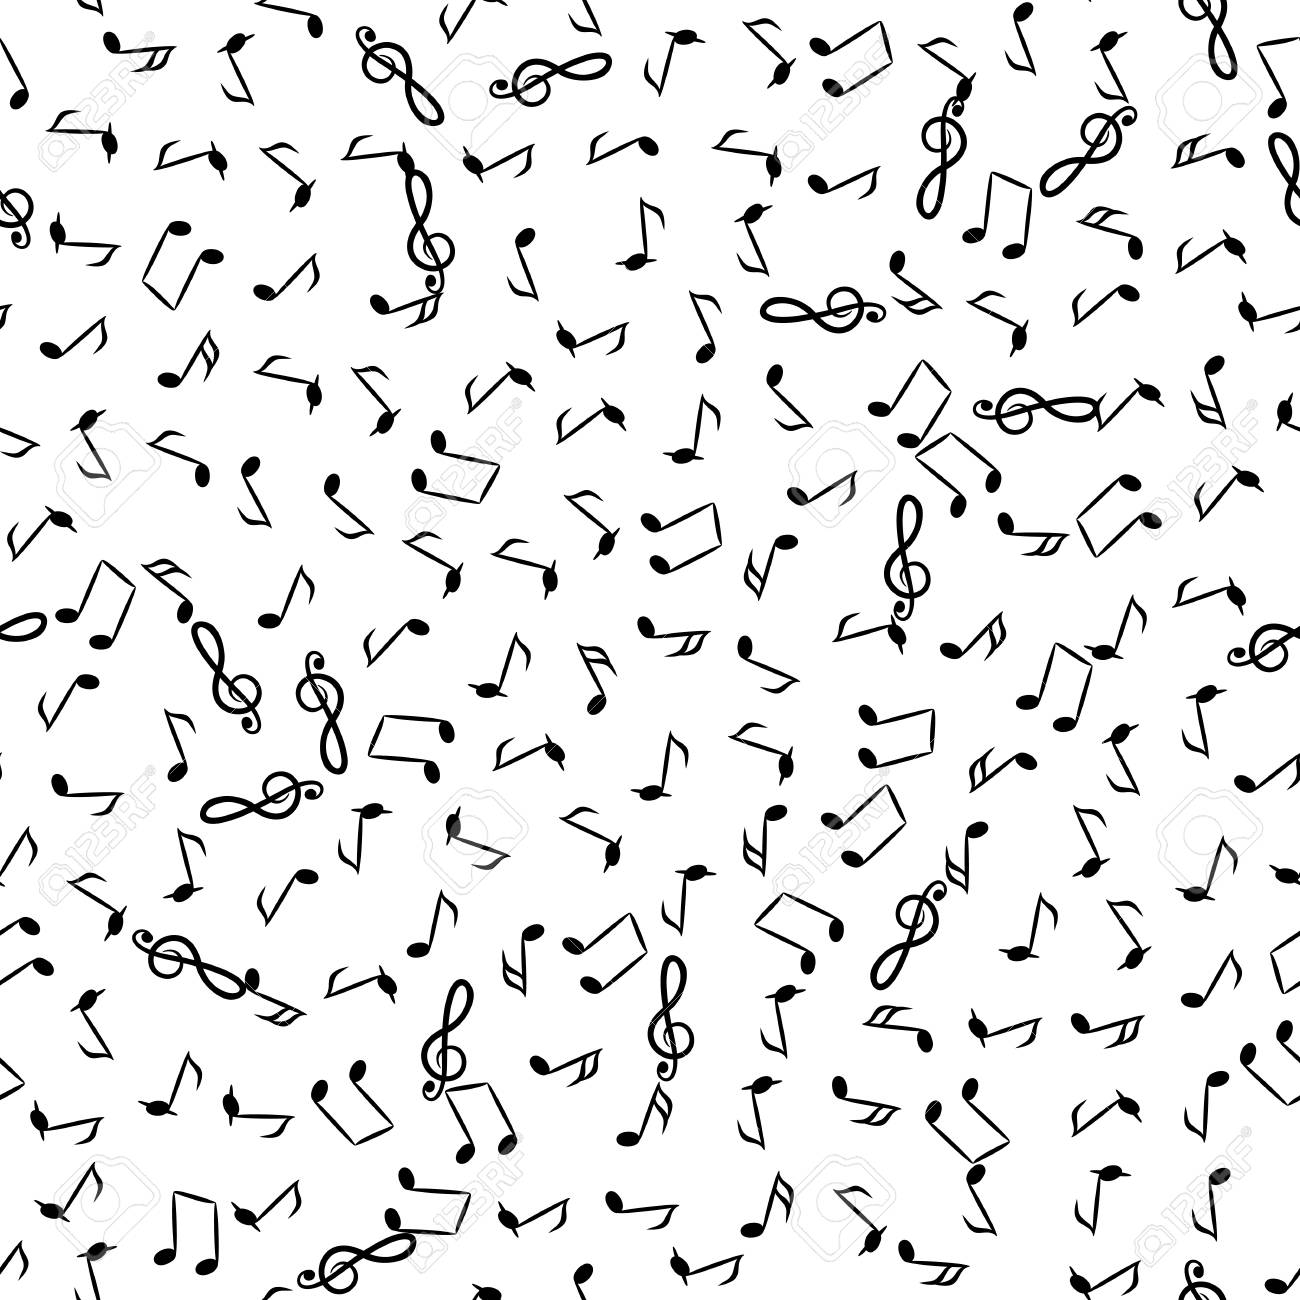
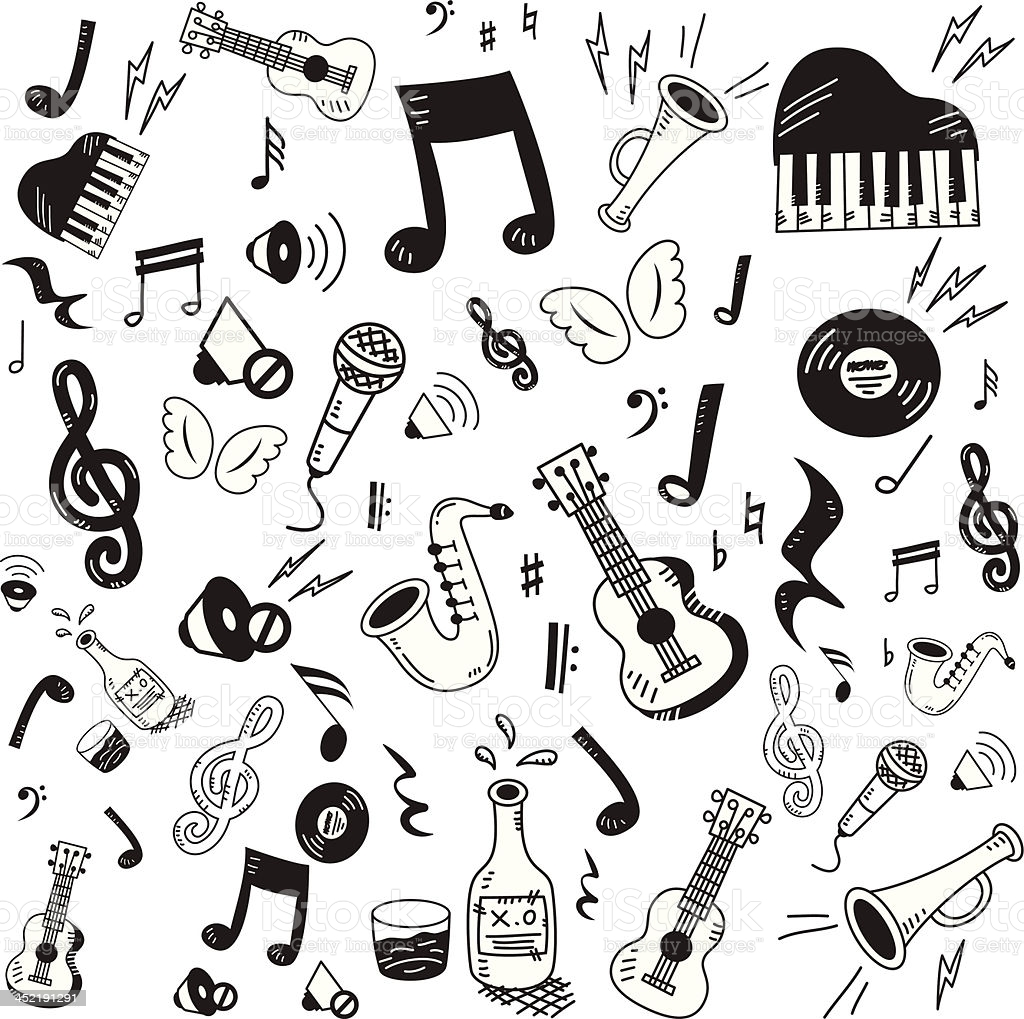
Add new background image and changes after fixing warnings in JS validator

Changed region(s): [[0.0, 0.0, 1.0, 1.0], [0.9688, 0.9735, 1.0, 1.0], [0.7188, 0.9735, 0.75, 1.0]]

diff --git a/assets/js/script.js b/assets/js/script.js
@@ -16,16 +16,16 @@ const picSelection = ['one', 'one', 'two', 'two', 'three', 'three', 'four', 'fou
         const position = Math.floor(Math.random() * picSelection.length); //1
         pic.classList.add(picSelection[position]);
         picSelection.splice(position, 1);
-    })
+    });
     setTimeout(function () {
         pics.forEach(pic => {
-            pic.classList.add("hidden")
-            pic.addEventListener("click", clickPic)
-        })
-    }, 500)
+            pic.classList.add("hidden");
+            pic.addEventListener("click", clickPic);
+        });
+    }, 500);
   };
   
-  start()
+  start();
  
   // Place two chosen pictures here
   const chosenPics = [];
@@ -43,40 +43,36 @@ chosenPic.classList.remove('hidden');
 // First click, array = 0
 // These two functions are based on functions from https://www.youtube.com/watch?v=gKUUHjEg7mQ&t=3902s
    if (chosenPics.length === 0) {
-       console.log("First");
        chosenPics[0] = chosenPic; 
        return;
    } else {
-       console.log("Second");
         // For a brief moment we remove the possibility to click 
-       pics.forEach(pic => pic.removeEventListener("click", clickPic))
+       pics.forEach(pic => pic.removeEventListener("click", clickPic));
        chosenPics[1] = chosenPic;
  
        setTimeout(function () {
            if (chosenPics[0].className === chosenPics[1].className) {
-               console.log("WINNING!")
-               chosenPics.forEach(pic => pic.classList.add("matched"))
+               chosenPics.forEach(pic => pic.classList.add("matched"));
                pics = pics.filter(pic => !pic.classList.contains("matched"));
                gameResult++; // Update game result
 
                // Check if the game came to an end
                if (gameResult == gameLenght) {
                    const endGame = new Date().getTime();
-                   const gameTime = (endGame - beginGame) / 1000
-                   alert(`You won! Your score is: ${gameTime} `)
+                   const gameTime = (endGame - beginGame) / 1000;
+                   alert(`You won! Your time is ${gameTime} seconds!`);
                    location.reload(); // Start the game again
                }
            } else {
-               console.log("Lost")
-               chosenPics.forEach(pic => pic.classList.add("hidden"))
+               chosenPics.forEach(pic => pic.classList.add("hidden"));
            }
 
            chosenPic = ""; 
            chosenPics.length = 0; 
-           pics.forEach(pic => pic.addEventListener("click", clickPic))
+           pics.forEach(pic => pic.addEventListener("click", clickPic));
  
-       }, 700)
-     } 
+       }, 700);
+     }
  };
  
  const gameLenght = pics.length / 2; // 8 pairs

diff --git a/assets/js/script_two.js b/assets/js/script_two.js
@@ -17,16 +17,16 @@ const picSelection = ['pic-1', 'pic-1', 'pic-2', 'pic-2', 'pic-3', 'pic-3', 'pic
         const position = Math.floor(Math.random() * picSelection.length); //1
         pic.classList.add(picSelection[position]);
         picSelection.splice(position, 1);
-    })
+    });
     setTimeout(function () {
         pics.forEach(pic => {
             pic.classList.add("hidden")
-            pic.addEventListener("click", clickPic)
-        })
-    }, 1000)
+            pic.addEventListener("click", clickPic);
+        });
+    }, 1000);
   };
   
-  start()
+  start();
  
   // Place two chosen pictures here
   const chosenPics = [];
@@ -44,39 +44,35 @@ chosenPic.classList.remove('hidden');
 // First click, array = 0
 // These two functions are based on functions from https://www.youtube.com/watch?v=gKUUHjEg7mQ&t=3902s
    if (chosenPics.length === 0) {
-       console.log("First");
        chosenPics[0] = chosenPic; 
        return;
    } else {
-       console.log("Second");
         // For a brief moment we remove the possibility to click 
-       pics.forEach(pic => pic.removeEventListener("click", clickPic))
+       pics.forEach(pic => pic.removeEventListener("click", clickPic));
        chosenPics[1] = chosenPic;
  
        setTimeout(function () {
            if (chosenPics[0].className === chosenPics[1].className) {
-               console.log("WINNING!")
-               chosenPics.forEach(pic => pic.classList.add("matched"))
+               chosenPics.forEach(pic => pic.classList.add("matched"));
                pics = pics.filter(pic => !pic.classList.contains("matched"));
                gameResult++; // Update game result
 
                // Check if the game came to an end
                if (gameResult == gameLenght) {
                    const endGame = new Date().getTime();
-                   const gameTime = (endGame - beginGame) / 1000
-                   alert(`You won! Your score is: ${gameTime} `)
+                   const gameTime = (endGame - beginGame) / 1000;
+                   alert(`You won! Your time is ${gameTime} seconds!`);
                    location.reload(); // Start the game again
                }
            } else {
-               console.log("Lost")
-               chosenPics.forEach(pic => pic.classList.add("hidden"))
+               chosenPics.forEach(pic => pic.classList.add("hidden"));
            }
 
            chosenPic = ""; 
            chosenPics.length = 0; 
-           pics.forEach(pic => pic.addEventListener("click", clickPic))
+           pics.forEach(pic => pic.addEventListener("click", clickPic));
  
-       }, 700)
+       }, 700);
      } 
  };
  

diff --git a/assets/css/style.css b/assets/css/style.css
@@ -267,12 +267,10 @@ div {
     margin: auto;
     text-transform: uppercase;
     text-align: center;
-    border: 1px solid black;
-    background: red;
-    border-radius: 20px;
-    color: black;
+   
     margin-bottom: 20px;
-    width: 800px;
+    min-width: 400px;
+    
 } 
 
 .header-main {

diff --git a/README.md b/README.md
@@ -91,6 +91,9 @@ You can view the deployed game [here](https://alex-1134.github.io/memory_game_mi
   * [JS 1](assets/images/js_test_1.jpg)
   * [JS 2](assets/images/js_test_2.jpg)
 
+  There were some semicolons missing in both JS files, but they were fixed after running the code through the validator.
+  * [JS 1 - fixed](assets/images/fixed_js_1.jpg)
+  * [JS 2 - fixed](assets/images/fixed_js_2.jpg)
 
 
 ## Browser Compatibility Testing
